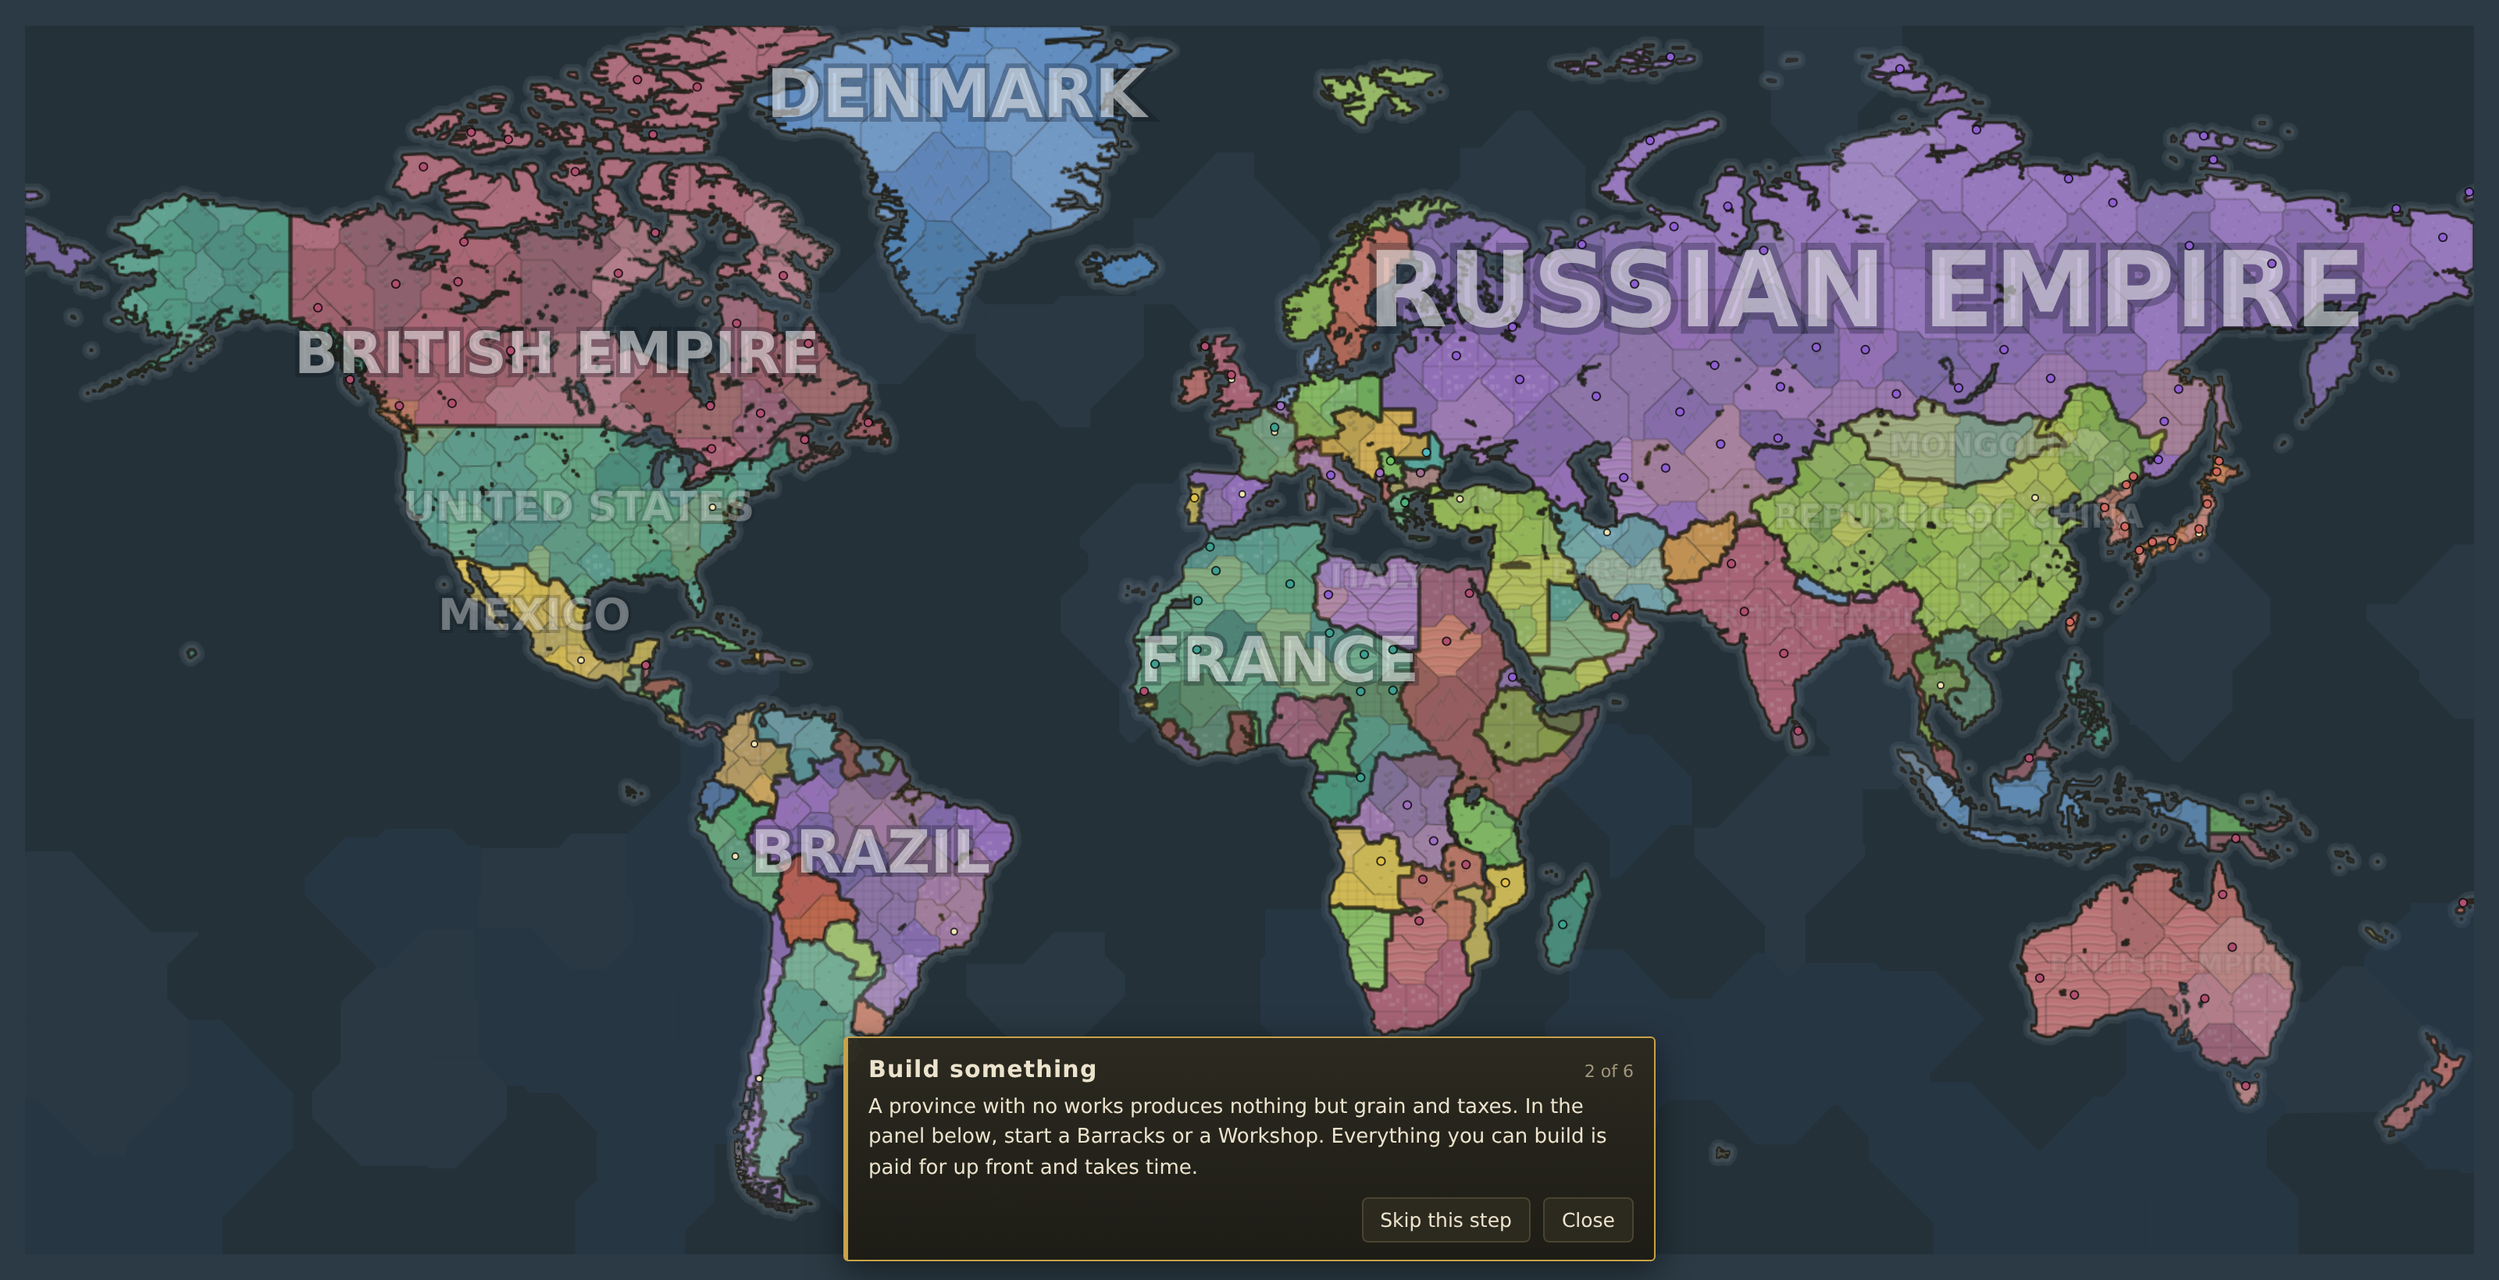
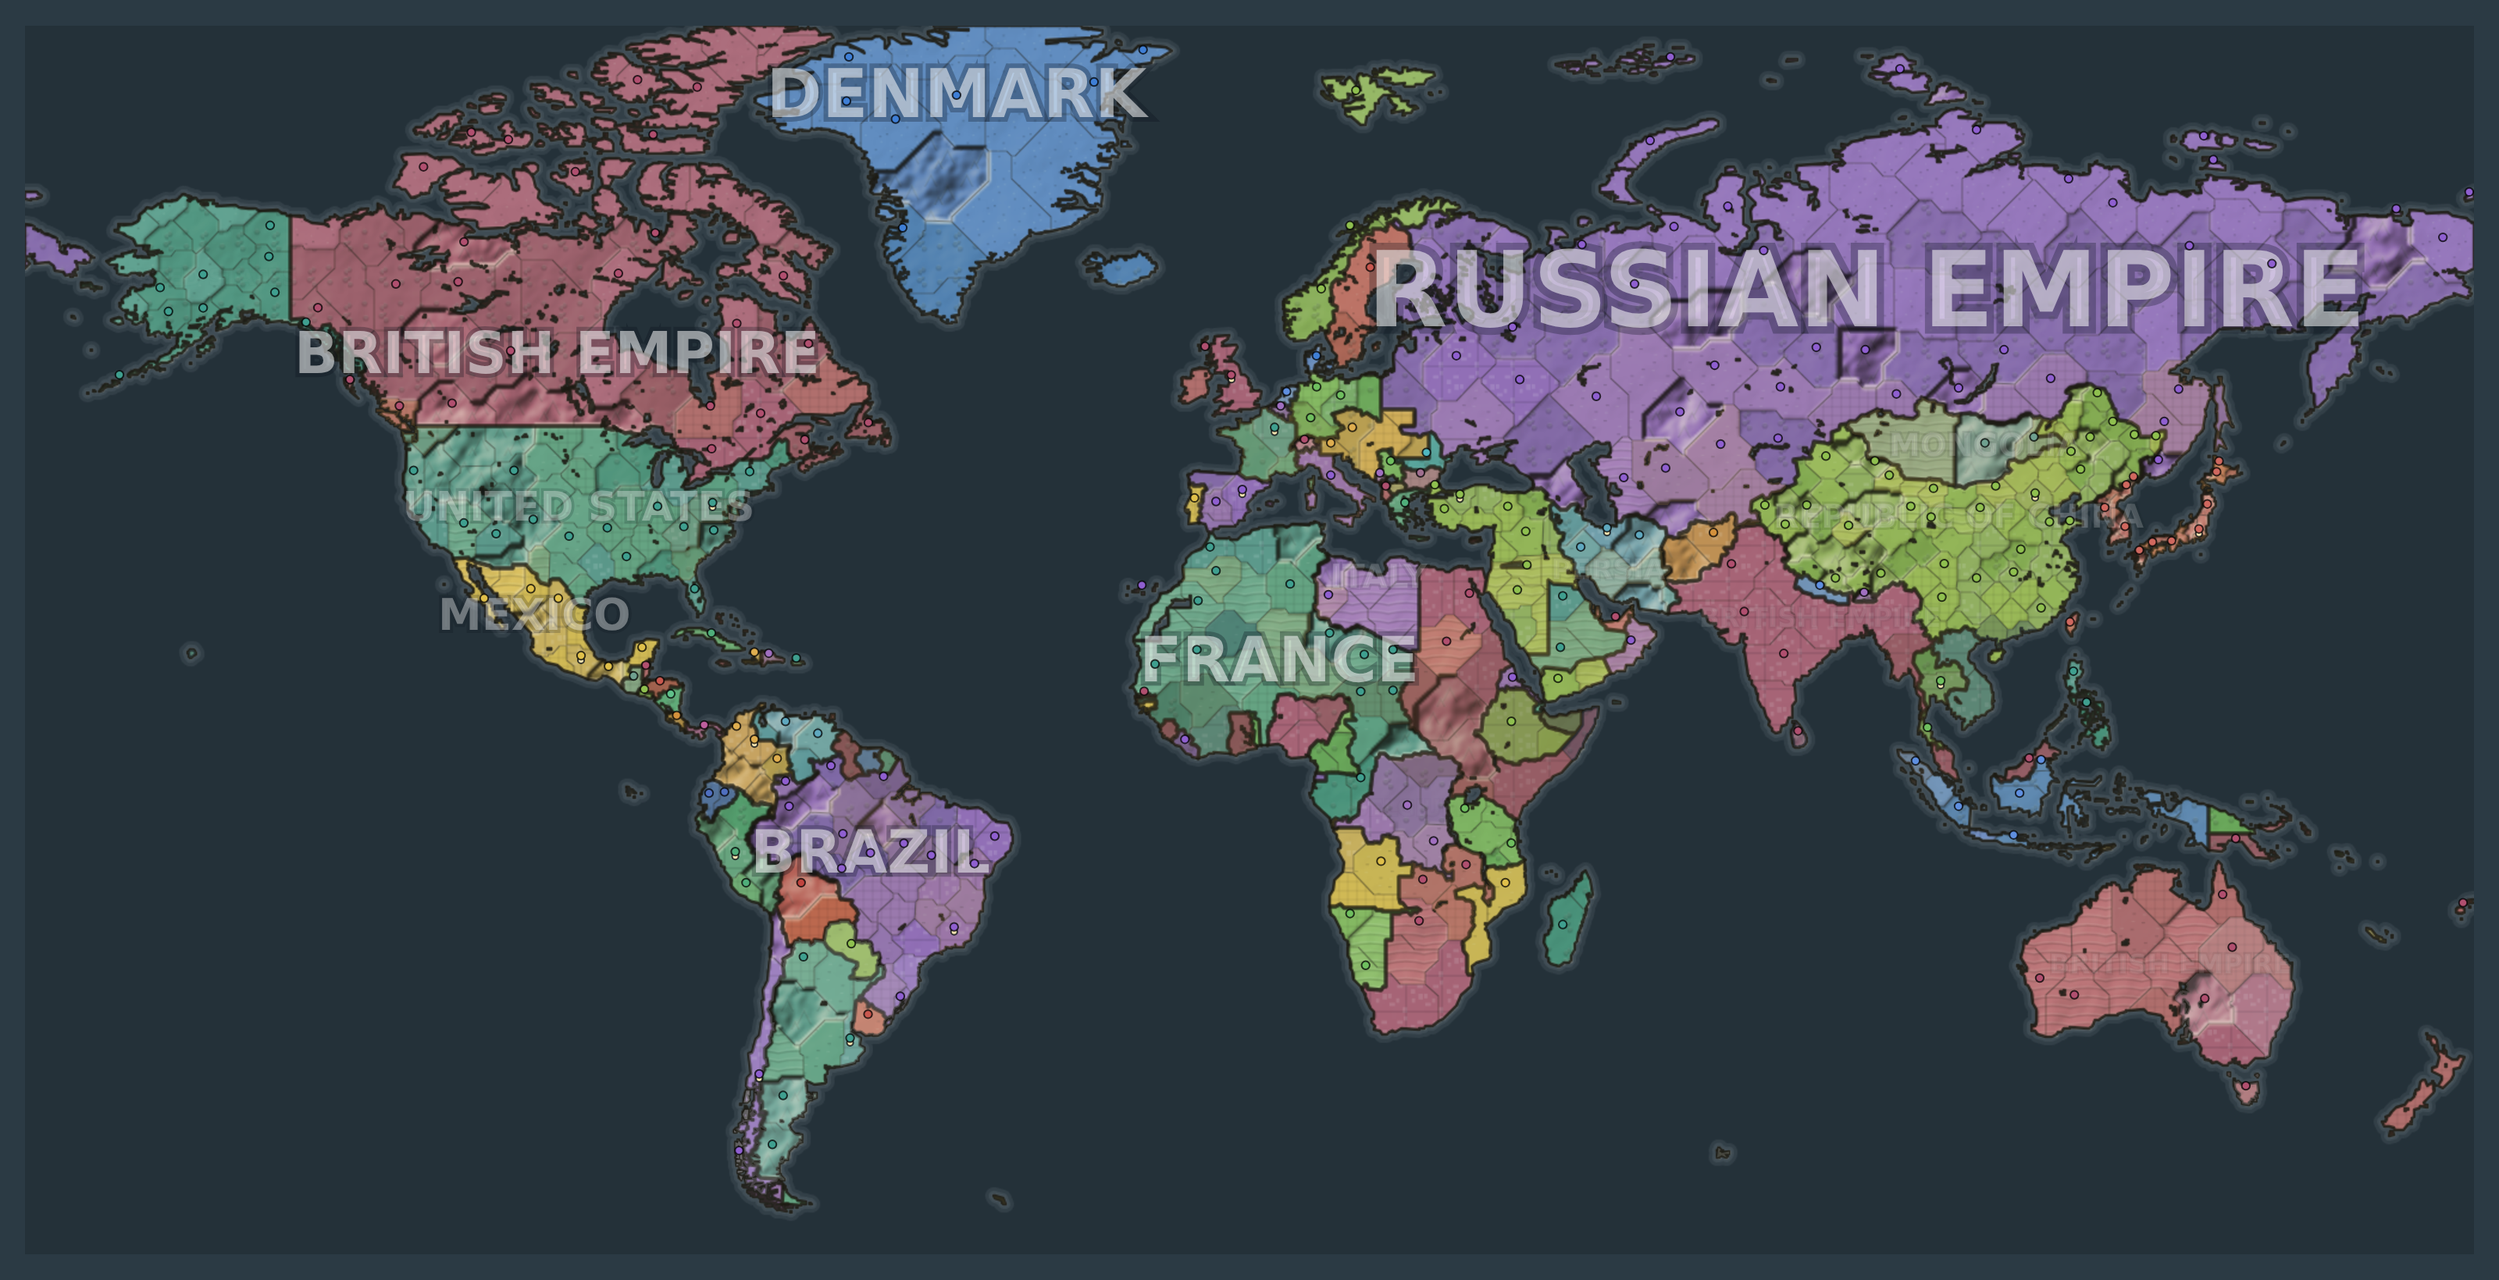
Shade the ground so the map reads as terrain, not as a diagram
The map was flat political colour with a hatch over it. It now carries a
shaded relief: the terrain each province was already assigned is treated
as a description of its ground — a base height and a roughness — painted
into a field, given fractal noise in proportion to how broken it is, and
lit from the north-west, which is where map light has come from since the
first shaded atlases because the eye reads it as raised rather than sunken.

There is no elevation model in the map data and adding one would mean
another source dataset and another megabyte. This needs neither.

Shading is scaled by roughness rather than applied evenly. Lit evenly,
farmland picked up as much relief as the Alps and the whole map went pale
and mottled; the point of relief is that flat country looks flat. It is
built once at startup and blitted into the cached layer — geography is the
one part of the world a war does not move — so it costs nothing per frame
and all four views still hold 60 fps.

Two things the brighter map exposed, both pre-existing:

Weather washed sea zones, which are large and rectangular, so the weather
grid itself was drawn across the Atlantic in hard diagonal bands. Land
only now. And every kind of weather tinted the ground, so ordinary rain
over Siberia — where provinces are the size of countries — painted a fog
bank five hundred miles across that read as a rendering fault. Only
weather that costs you something has a tint now; rain and fog still slow
[…]

diff --git a/src/engine/relief.js b/src/engine/relief.js
@@ -1,0 +1,186 @@
+/*
+ * Relief.
+ *
+ * The map is flat colour with a terrain hatch over it, which reads as a
+ * diagram rather than as ground.  This builds a shaded relief the renderer lays
+ * over the political fills, so the Alps, the Carpathians and the Caucasus have
+ * shape and the plains between them read as plains.
+ *
+ * There is no elevation model in the map data and adding one would mean another
+ * source dataset and another megabyte.  Instead the terrain each province was
+ * already assigned is treated as a description of its ground: a base height and
+ * a roughness.  Those are painted into a field, fractal noise is added in
+ * proportion to the roughness, and the field is lit from the north-west — which
+ * is where map light has come from since the first shaded atlases, because the
+ * eye reads it as raised rather than sunken.
+ *
+ * The whole thing is built once at startup and never changes: geography is the
+ * one part of the world a war does not move.
+ */
+(function (global) {
+  'use strict';
+
+  var IA = global.IA = global.IA || {};
+
+  /*
+   * How high each terrain sits and how broken it is.  These are not metres —
+   * they are what the shading should say about the ground.
+   */
+  var GROUND = {
+    plains: { height: 0.14, rough: 0.10 },
+    farmland: { height: 0.11, rough: 0.05 },
+    steppe: { height: 0.19, rough: 0.11 },
+    desert: { height: 0.20, rough: 0.20 },
+    forest: { height: 0.28, rough: 0.17 },
+    taiga: { height: 0.31, rough: 0.19 },
+    jungle: { height: 0.24, rough: 0.14 },
+    tundra: { height: 0.22, rough: 0.12 },
+    mountain: { height: 0.78, rough: 0.60 },
+    urban: { height: 0.17, rough: 0.07 },
+    sea: { height: 0, rough: 0 }
+  };
+
+  var LIGHT_X = -0.72;          // from the north-west, as an atlas is lit
+  var LIGHT_Y = -0.69;
+  var RELIEF = 2.6;             // how hard the shading bites
+  var NOISE_SCALE = 0.038;      // features per map unit at the coarsest octave
+
+  /*
+   * Shading is scaled by how broken the ground is, not applied evenly.  Lit
+   * evenly, farmland picks up as much relief as the Alps and the whole map goes
+   * pale and mottled; the point of relief is that flat country looks flat.
+   */
+  var FLOOR = 0.14;             // the least any ground is shaded
+  var LIT_MAX = 120;            // alpha, sunlit slope
+  var DARK_MAX = 190;           // alpha, shadowed slope
+
+  function hash2(x, y, seed) {
+    var h = Math.imul(x | 0, 374761393) ^ Math.imul(y | 0, 668265263) ^ seed;
+    h = Math.imul(h ^ (h >>> 13), 1274126177);
+    return ((h ^ (h >>> 16)) >>> 0) / 4294967296;
+  }
+
+  /** Value noise: cheap, smooth enough once four octaves are stacked. */
+  function noise(x, y, seed) {
+    var xi = Math.floor(x), yi = Math.floor(y);
+    var xf = x - xi, yf = y - yi;
+    var u = xf * xf * (3 - 2 * xf);
+    var v = yf * yf * (3 - 2 * yf);
+    var a = hash2(xi, yi, seed), b = hash2(xi + 1, yi, seed);
+    var c = hash2(xi, yi + 1, seed), d = hash2(xi + 1, yi + 1, seed);
+    return (a * (1 - u) + b * u) * (1 - v) + (c * (1 - u) + d * u) * v;
+  }
+
+  function fractal(x, y, seed) {
+    var sum = 0, amp = 1, freq = 1, norm = 0;
+    for (var o = 0; o < 4; o++) {
+      sum += noise(x * freq, y * freq, seed + o * 7919) * amp;
+      norm += amp;
+      amp *= 0.5;
+      freq *= 2.07;
+    }
+    return sum / norm;
+  }
+
+  /**
+   * Paint the ground description into a field: red carries base height, green
+   * carries roughness, and the sea is left transparent so nothing is shaded
+   * out at sea.  Province edges blend, which is what you want — one terrain
+   * should run into the next rather than step.
+   */
+  function paintGround(state, w, h) {
+    var canvas = global.document.createElement('canvas');
+    canvas.width = w; canvas.height = h;
+    var ctx = canvas.getContext('2d');
+    ctx.clearRect(0, 0, w, h);
+    ctx.save();
+    ctx.scale(w / state.mapW, h / state.mapH);
+    var map = IA.mapdata.load();
+    for (var i = 0; i < state.provinces.length; i++) {
+      var prov = state.provinces[i];
+      if (prov.isSea || prov.size === 0) continue;
+      var g = GROUND[prov.terrain] || GROUND.plains;
+      var path = new global.Path2D();
+      for (var l = 0; l < prov.loops.length; l++) {
+        var pts = IA.mapdata.loopPoints(map, prov.loops[l]);
+        if (pts.length < 6) continue;
+        path.moveTo(pts[0], pts[1]);
+        for (var k = 2; k < pts.length; k += 2) path.lineTo(pts[k], pts[k + 1]);
+        path.closePath();
+      }
+      ctx.fillStyle = 'rgb(' + Math.round(g.height * 255) + ',' +
+        Math.round(g.rough * 255) + ',255)';
+      ctx.fill(path);
+    }
+    ctx.restore();
+    return canvas;
+  }
+
+  /**
+   * Build the shaded relief.  Returns a canvas the renderer can blit in map
+   * coordinates: dark where the ground falls away from the light, pale where it
+   * catches it, and clear where the ground is flat or there is no ground.
+   */
+  function build(state, seedString) {
+    var w = Math.round(state.mapW);
+    var h = Math.round(state.mapH);
+    var seed = IA.hashString(String(seedString || state.seed || 'relief')) >>> 0;
+
+    var ground = paintGround(state, w, h);
+    var src = ground.getContext('2d').getImageData(0, 0, w, h).data;
+
+    // Height field, with noise in proportion to how broken the ground is.
+    var elev = new Float32Array(w * h);
+    var bite = new Float32Array(w * h);
+    var land = new Uint8Array(w * h);
+    var x, y, i;
+    for (y = 0; y < h; y++) {
+      for (x = 0; x < w; x++) {
+        i = y * w + x;
+        var p = i * 4;
+        if (src[p + 3] < 8) continue;                  // open water
+        land[i] = 1;
+        var base = src[p] / 255;
+        var rough = src[p + 1] / 255;
+        elev[i] = base + (fractal(x * NOISE_SCALE, y * NOISE_SCALE, seed) - 0.5) * rough * 1.9;
+        bite[i] = FLOOR + (1 - FLOOR) * Math.min(1, rough / 0.55);
+      }
+    }
+
+    var out = global.document.createElement('canvas');
+    out.width = w; out.height = h;
+    var octx = out.getContext('2d');
+    var img = octx.createImageData(w, h);
+    var data = img.data;
+
+    for (y = 0; y < h; y++) {
+      for (x = 0; x < w; x++) {
+        i = y * w + x;
+        if (!land[i]) continue;
+        // Central differences, clamped at the edges of the field.
+        var xm = x > 0 ? elev[i - 1] : elev[i];
+        var xp = x < w - 1 ? elev[i + 1] : elev[i];
+        var ym = y > 0 ? elev[i - w] : elev[i];
+        var yp = y < h - 1 ? elev[i + w] : elev[i];
+        var dx = (xp - xm) * RELIEF;
+        var dy = (yp - ym) * RELIEF;
+        // Slope facing the light is lit, slope facing away is shadowed.
+        var shade = (dx * LIGHT_X + dy * LIGHT_Y) * bite[i];
+        var q = i * 4;
+        if (shade >= 0) {
+          var lit = Math.min(1, shade * 3.6);
+          data[q] = 255; data[q + 1] = 248; data[q + 2] = 226;
+          data[q + 3] = Math.round(lit * LIT_MAX);
+        } else {
+          var dark = Math.min(1, -shade * 3.6);
+          data[q] = 12; data[q + 1] = 11; data[q + 2] = 7;
+          data[q + 3] = Math.round(dark * DARK_MAX);
+        }
+      }
+    }
+    octx.putImageData(img, 0, 0);
+    return out;
+  }
+
+  IA.relief = { build: build, GROUND: GROUND };
+})(typeof globalThis !== 'undefined' ? globalThis : this);

diff --git a/src/ui/renderer.js b/src/ui/renderer.js
@@ -162,6 +162,16 @@
     this.runBounds = new Array(state.runs.length);
     this.baseLayer = null;
     this.viewW = 1; this.viewH = 1; this.dpr = 1;
+    /*
+     * Shaded relief is geography, so it is built once and never rebuilt.  It is
+     * laid over the political fills in both the cached raster and the vector
+     * layer, which is why it costs nothing per frame.
+     */
+    try {
+      this.relief = IA.relief.build(state);
+    } catch (e) {
+      this.relief = null;                 // shading is never worth a broken map
+    }
     this.buildBase();
   }
 
@@ -272,6 +282,8 @@
       this.textureProvince(ctx, prov, path, BASE_SCALE);
     }
 
+    this.drawRelief(ctx, only ? [only.bbox[0] - 2, only.bbox[1] - 2, only.bbox[2] + 2, only.bbox[3] + 2]
+      : [0, 0, state.mapW, state.mapH]);
     this.strokeBorders(ctx, 1, only ? only.bbox : null);
     if (only) ctx.restore();
   };
@@ -542,13 +554,32 @@
     return out;
   };
 
-  /** The ground itself: coastal shelf, province fills, then every border. */
+  /**
+   * Lay the shaded relief over the fills.  Only the slice of it under the view
+   * is drawn, so zooming in does not scale a world-sized image.
+   */
+  Renderer.prototype.drawRelief = function (ctx, box) {
+    var relief = this.relief;
+    if (!relief) return;
+    var state = this.state;
+    var sx = relief.width / state.mapW, sy = relief.height / state.mapH;
+    var x0 = Math.max(0, Math.floor(box[0] * sx));
+    var y0 = Math.max(0, Math.floor(box[1] * sy));
+    var x1 = Math.min(relief.width, Math.ceil(box[2] * sx));
+    var y1 = Math.min(relief.height, Math.ceil(box[3] * sy));
+    if (x1 <= x0 || y1 <= y0) return;
+    ctx.drawImage(relief, x0, y0, x1 - x0, y1 - y0,
+      x0 / sx, y0 / sy, (x1 - x0) / sx, (y1 - y0) / sy);
+  };
+
+  /** The ground itself: coastal shelf, province fills, relief, then borders. */
   Renderer.prototype.drawGround = function (ctx, z, box, list) {
     this.drawShelf(ctx, z, box);
     for (var i = 0; i < list.length; i++) {
       ctx.fillStyle = this.fillFor(list[i]);
       ctx.fill(this.pathFor(list[i]));
     }
+    this.drawRelief(ctx, box);
     this.strokeBorders(ctx, z, box);
   };
 
@@ -751,7 +782,10 @@
     this.applyCamera(ctx);
     for (var i = 0; i < state.provinces.length; i++) {
       var p = state.provinces[i];
-      if (p.size === 0 || !overlaps(box, p.bbox)) continue;
+      // Land only.  Sea zones are large and rectangular, so a wash over them
+      // draws the weather grid itself across the ocean in hard diagonal bands
+      // rather than reading as weather.
+      if (p.size === 0 || p.isSea || !overlaps(box, p.bbox)) continue;
       var wash = IA.weather.of(p).wash;
       if (!wash) continue;
       ctx.fillStyle = wash;

diff --git a/src/game/weather.js b/src/game/weather.js
@@ -25,16 +25,21 @@
    * `speed` multiplies movement, `attack` multiplies the fire a stack puts out,
    * and `attrition` is hit points an hour per battalion lost to the conditions
    * themselves — men in the open in a blizzard, or in the desert in August.
+   *
+   * `wash` tints the ground on the map, and only weather that costs you
+   * something has one.  Provinces in Siberia are the size of countries, so a
+   * tint for ordinary rain paints a fog bank five hundred miles across and
+   * reads as a rendering fault rather than as weather.
    */
   var WEATHER = {
     clear: { name: 'Clear', icon: '☀', speed: 1.00, attack: 1.00, attrition: 0, wash: null },
     overcast: { name: 'Overcast', icon: '☁', speed: 1.00, attack: 0.97, attrition: 0, wash: null },
-    rain: { name: 'Rain', icon: '☂', speed: 0.85, attack: 0.92, attrition: 0, wash: 'rgba(70,96,120,0.16)' },
-    fog: { name: 'Fog', icon: '▤', speed: 0.90, attack: 0.78, attrition: 0, wash: 'rgba(206,212,216,0.16)' },
-    mud: { name: 'Mud', icon: '≋', speed: 0.55, attack: 0.82, attrition: 0.05, wash: 'rgba(92,68,40,0.26)' },
-    snow: { name: 'Snow', icon: '❄', speed: 0.65, attack: 0.85, attrition: 0.10, wash: 'rgba(226,236,244,0.17)' },
+    rain: { name: 'Rain', icon: '☂', speed: 0.85, attack: 0.92, attrition: 0, wash: null },
+    fog: { name: 'Fog', icon: '▤', speed: 0.90, attack: 0.78, attrition: 0, wash: null },
+    mud: { name: 'Mud', icon: '≋', speed: 0.55, attack: 0.82, attrition: 0.05, wash: 'rgba(96,70,40,0.22)' },
+    snow: { name: 'Snow', icon: '❄', speed: 0.65, attack: 0.85, attrition: 0.10, wash: 'rgba(228,238,246,0.15)' },
     blizzard: { name: 'Blizzard', icon: '✼', speed: 0.38, attack: 0.68, attrition: 0.28, wash: 'rgba(238,246,252,0.29)' },
-    heat: { name: 'Heat', icon: '☼', speed: 0.85, attack: 0.92, attrition: 0.12, wash: 'rgba(224,168,72,0.18)' },
+    heat: { name: 'Heat', icon: '☼', speed: 0.85, attack: 0.92, attrition: 0.12, wash: 'rgba(226,170,70,0.13)' },
     storm: { name: 'Storm', icon: '⚡', speed: 0.70, attack: 0.85, attrition: 0.06, wash: 'rgba(48,66,92,0.30)' }
   };
 

diff --git a/tools/hero.js b/tools/hero.js
@@ -67,12 +67,16 @@ var OUT = path.join(__dirname, 'shots',
   await page.evaluate(function (opts) {
     var which = opts.which;
     IA.UI.setSpeed('pause');
+    // These are pictures of the map, not of a campaign: fog would just show
+    // which nation the seed happened to pick.
+    IA.game.current.settings.fogOfWar = false;
+    IA.UI.recomputeVisibility(true);
     if (opts.atDay > 0) {
       IA.game.current.time = opts.atDay * 24;
       IA.weather.refresh(IA.game.current);
     }
     IA.UI.clearSelection();
-    ['topbar', 'panel', 'bottomNav', 'speedControls', 'toasts'].forEach(function (id) {
+    ['topbar', 'panel', 'bottomNav', 'speedControls', 'toasts', 'tutorial'].forEach(function (id) {
       var el = document.getElementById(id);
       if (el) el.style.display = 'none';
     });

diff --git a/index.html b/index.html
@@ -140,6 +140,7 @@
 <script src="src/data/commanders.js"></script>
 <script src="src/engine/mapdata.js"></script>
 <script src="src/engine/worldgen.js"></script>
+<script src="src/engine/relief.js"></script>
 <script src="src/game/weather.js"></script>
 <script src="src/game/market.js"></script>
 <script src="src/game/diplomacy.js"></script>
